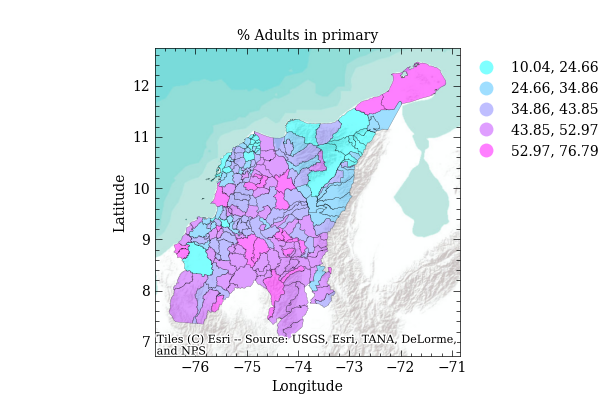
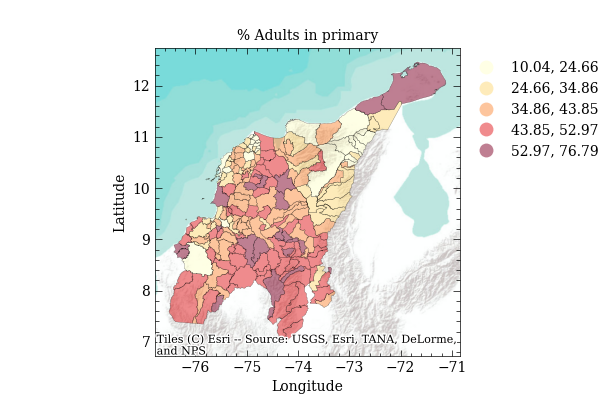
Fix error with colors and titles

Changed region(s): [[0.27, 0.15, 0.75, 0.84], [0.78, 0.15, 0.84, 0.39]]

diff --git a/src/03_make_maps.py b/src/03_make_maps.py
@@ -11,9 +11,9 @@ save_images_path = "images/{:02d}_{}_map.{}"
 
 # Define variables of interest
 variables = ["DVCper1000iH", "PercentageAdultinPrimary", "WomenperMen"]
-titles = ["Domestic violence cases", "% Adults in primary", "Ratio women per men"]
-colors = ["YlOrRd", "cool", "Spectral_r"]
-save_keys = ["dvc_jenks", "perc_adults_primary_jenks", "ratio_women_per_men"]
+titles = ["DVC per 1000 inhabitants", "% Adults in primary", "Ratio women per men"]
+colors = ["Spectral_r", "YlOrRd", "cool"]
+save_keys = ["dvc_per_1000_jenks", "perc_adults_primary_jenks", "ratio_women_per_men"]
 
 def main():
     # Load data
